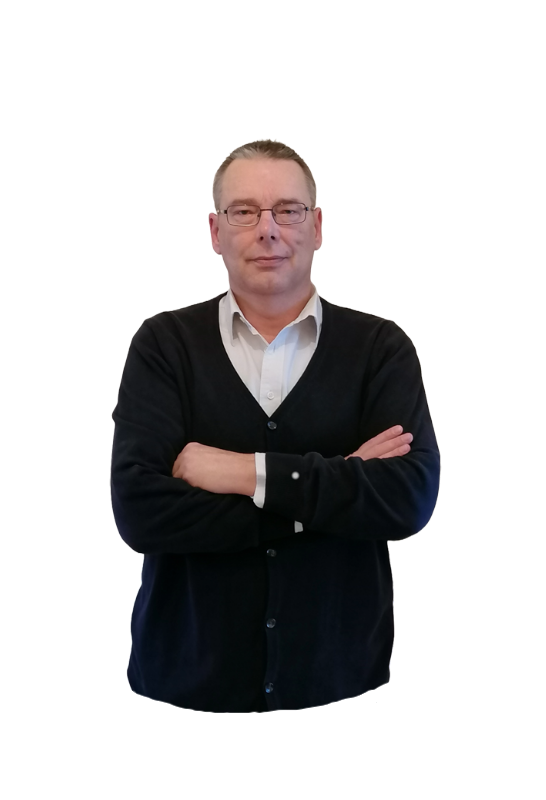
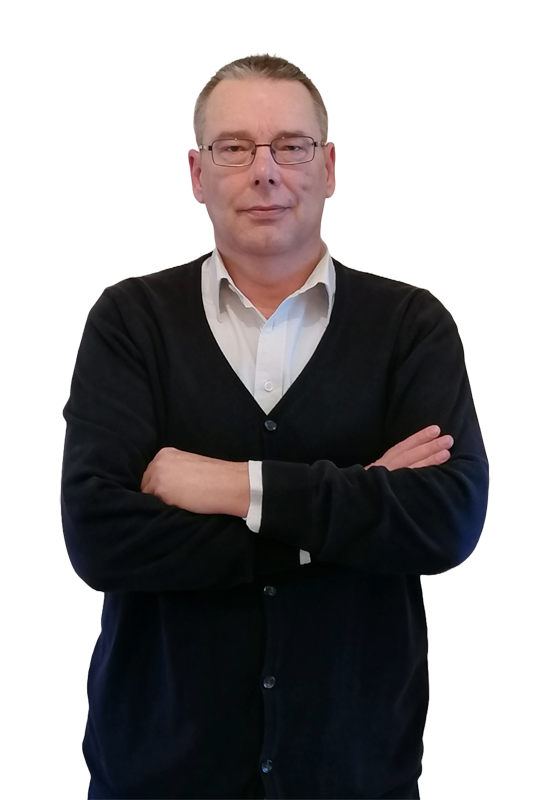
"hamburger-menu animation created"

diff --git a/src/app/main-content/landingpage/landingpage.component.html b/src/app/main-content/landingpage/landingpage.component.html
@@ -2,7 +2,7 @@
     <div class="profil_section">
         <div class="profil_image">
             <div class="profil_img_box">
-                <img class="profil_img" src="./../../../assets/img/profil_1.png" alt="Profil Image">
+                <img class="profil_img" src="./../../../assets/img/profil_1 - Kopie.png" alt="Profil Image">
                 <img class="bg_img" src="./../../../assets/img/svg/aot_bg.svg" alt="Background Image">
                 <img class="profil_img_bg" src="./../../../assets/img/svg/profil_img_bg.svg" alt="Background Image">
                 <img class="bg_img_hover" src="./../../../assets/img/svg/aot_bg_hover.svg" alt="Background Image">
@@ -27,13 +27,12 @@
                     <p class="fontAnta">M.Bock</p>
                     <p class="dev">developer</p>
                 </div>
-                <div class="burger_menu">
-                    <img [class.resp_menu_closed]="!isMenuVisible" (click)="toggleMenu()"
-                        src="./../../../assets/img/icons/burger_menu.svg" alt="Responsive Menu" />
+                <div class="burger_menu" (click)="toggleMenu()" [ngClass]="{'toggle': isMenuVisible}">
+                    <!-- <img [class.resp_menu_closed]="!isMenuVisible" (click)="toggleMenu()"
+                        src="./../../../assets/img/icons/burger_menu.svg" alt="Responsive Menu" /> -->
                 </div>
                 <div id="resp_menu" class="resp_menu_box" [class.resp_menu_closed]="!isMenuVisible" [class.show]="isMenuVisible">
                     <div>
-                        <img (click)="toggleMenu()" src="./../../../assets/img/icons/burger_close.png" alt="Close Menu" />
                         <a href="">{{ 'landingpage.whyme' | translate }}</a>
                         <a href="">{{ 'landingpage.skills' | translate }}</a>
                         <a href="">{{ 'landingpage.projects' | translate }}</a>

diff --git a/src/app/main-content/landingpage/landingpage.component.scss b/src/app/main-content/landingpage/landingpage.component.scss
@@ -247,9 +247,31 @@
                 display: block;
                 width: 30px;
                 height: 32px;
+                cursor: pointer;
+                background-image: url('./../../../assets/img/icons/burger_menu.svg');
+                background-repeat: no-repeat;
+                background-position: center;
+            }
 
-                >img {
-                    cursor: pointer;
+            .toggle {
+                animation: hamburgerOpen 1s forwards;
+            }
+
+            @keyframes hamburgerOpen {
+                0% {
+                    background-image: url('./../../../assets/img/icons/burger_menu.svg');
+                }
+
+                33% {
+                    background-image: url('./../../../assets/img/icons/burger_hover.png');
+                }
+
+                66% {
+                    background-image: url('./../../../assets/img/icons/burger_close.png');
+                }
+
+                100% {
+                    background-image: url('./../../../assets/img/icons/burger_close_bold.png');
                 }
             }
 
@@ -338,7 +360,9 @@
         }
 
         .name_section {
-            @include posi($t: 450px, $l: 50%);
+            position: absolute;
+            top: 450px;
+            left: 50%;
             transform: translate(-50%);
             width: 100%;
             height: 150px;
@@ -353,7 +377,9 @@
         }
 
         .arrow_down {
-            @include posi($t: 650px, $l: 50%);
+            position: absolute;
+            top: 650px;
+            left: 50%;
             transform: translate(-50%);
 
             img {

diff --git a/src/app/main-content/landingpage/landingpage.component.ts b/src/app/main-content/landingpage/landingpage.component.ts
@@ -1,3 +1,4 @@
+import { CommonModule } from '@angular/common';
 import { Component } from '@angular/core';
 import {
   TranslateDirective,
@@ -8,7 +9,7 @@ import {
 @Component({
   selector: 'app-landingpage',
   standalone: true,
-  imports: [TranslatePipe, TranslateDirective],
+  imports: [CommonModule, TranslatePipe, TranslateDirective],
   templateUrl: './landingpage.component.html',
   styleUrl: './landingpage.component.scss',
 })

diff --git a/src/app/main-content/why-me/why-me.component.scss b/src/app/main-content/why-me/why-me.component.scss
@@ -28,7 +28,7 @@
             font-size: 30px;
             font-weight: 700;
 
-            border: 1px solid;
+            // border: 1px solid;
 
             img {
                 width: 73px;
@@ -45,7 +45,7 @@
             font-size: 18px;
             font-weight: 400;
 
-            border: 1px solid;
+            // border: 1px solid;
 
             img {
                 position: absolute;

diff --git a/src/styles/mixins.scss b/src/styles/mixins.scss
@@ -5,9 +5,8 @@
     gap: $g;
 }
 
-@mixin posi($p: absolute, $t: 0, $b: 0, $l: 0) {
+@mixin posi($p: absolute, $b: 0, $l: 0) {
     position: $p;
-    top: $t;
     bottom: $b;
     left: $l;
 }
